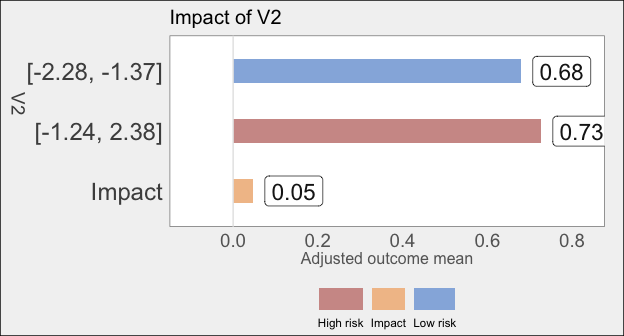
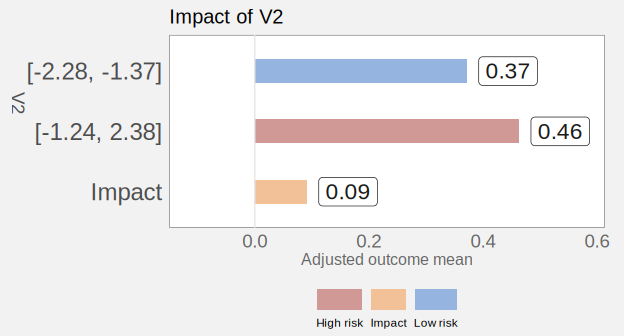
Re-render README from readme.Rmd
The committed example output predated the estimation fixes, so the README
advertised a result the package no longer produces. Its basic example showed

  V3 Ordered 0.49861358 (0.255 - 0.742) 2.935984e-05  <- significant

where current master gives

  V1 Ordered 0.14489067 (-0.139 - 0.429) 0.1584764
  V2 Ordered 0.09158159 (-0.162 - 0.345) 0.2397969
  V3 Ordered 0.06324108 (-0.189 - 0.315) 0.3114153
  V4 Ordered 0.04160003 (-0.245 - 0.329) 0.3881728

so the headline block now reads "No significant and consistent results."
Different magnitudes and a different ordering; most of this is the #34 offset
fix, where stats::offset() was not being recognised as the formula's offset
special and epsilon came back inflated.

The mlbench BreastCancer example still finds the same four significant
variables (Bare.nuclei, Cell.size, Mitoses, Cl.thickness).

Rendered with rmarkdown::render("readme.Rmd", output_file = "README.md") -
naming the output explicitly, since the source is lowercase and render() would
otherwise write a new readme.md and leave README.md stale.

Every changed line in README.md begins with "#>", so the diff is regenerated
knitr output only: no prose changed and there is no pandoc-version churn. The
two plots are regenerated to match.

Also ignored README.html, the local preview github_document writes via
html_preview; it has never been tracked and should not start now.

Claude-Session: https://claude.ai/code/session_01Xo3yCjZifUfAfLdHL1c1Hu

diff --git a/README.md b/README.md
@@ -92,24 +92,31 @@ vim <- varimpact(Y = Y, data = X)
 
 # Review consistent and significant results.
 vim
-#> Significant and consistent results:
-#>       Type  Estimate            CI95      P-value Adj. p-value  Est. RR
-#> V3 Ordered 0.4986136 (0.255 - 0.742) 2.935984e-05 0.0001174394 2.908162
-#>         CI95 RR   P-value RR Adj. p-value RR
-#> V3 (1.92 - 4.4) 2.214955e-07    8.859819e-07
+#> No significant and consistent results.
+#> All results:
+#>       Type   Estimate             CI95   P-value Adj. p-value  Est. RR
+#> V1 Ordered 0.14489067 (-0.139 - 0.429) 0.1584764    0.3881728 1.481582
+#> V2 Ordered 0.09158159 (-0.162 - 0.345) 0.2397969    0.3881728 1.248218
+#> V3 Ordered 0.06324108 (-0.189 - 0.315) 0.3114153    0.3881728 1.143214
+#> V4 Ordered 0.04160003 (-0.245 - 0.329) 0.3881728    0.3881728 1.092865
+#>           CI95 RR P-value RR Adj. p-value RR Consistent
+#> V1  (0.58 - 3.79)  0.2057776       0.3838645       TRUE
+#> V2 (0.627 - 2.48)  0.2638584       0.3838645       TRUE
+#> V3  (0.69 - 1.89)  0.3017601       0.3838645       TRUE
+#> V4 (0.606 - 1.97)  0.3838645       0.3838645       TRUE
 
 # Look at all results.
 vim$results_all
-#>       Type    Estimate             CI95      P-value Adj. p-value   Est. RR
-#> V3 Ordered  0.49861358  (0.255 - 0.742) 2.935984e-05 0.0001174394 2.9081617
-#> V4 Ordered  0.21853793 (-0.167 - 0.604) 1.334006e-01 0.2668012809 1.4110231
-#> V2 Ordered  0.04733746 (-0.276 - 0.371) 3.872064e-01 0.5162752138 1.0698709
-#> V1 Ordered -0.10939221 (-0.494 - 0.275) 7.116162e-01 0.7116161584 0.8266168
-#>           CI95 RR   P-value RR Adj. p-value RR Consistent
-#> V3   (1.92 - 4.4) 2.214955e-07    8.859819e-07       TRUE
-#> V4 (0.833 - 2.39) 1.000755e-01    2.001509e-01       TRUE
-#> V2 (0.664 - 1.72) 3.905406e-01    5.207208e-01       TRUE
-#> V1 (0.441 - 1.55) 7.238555e-01    7.238555e-01       TRUE
+#>       Type   Estimate             CI95   P-value Adj. p-value  Est. RR
+#> V1 Ordered 0.14489067 (-0.139 - 0.429) 0.1584764    0.3881728 1.481582
+#> V2 Ordered 0.09158159 (-0.162 - 0.345) 0.2397969    0.3881728 1.248218
+#> V3 Ordered 0.06324108 (-0.189 - 0.315) 0.3114153    0.3881728 1.143214
+#> V4 Ordered 0.04160003 (-0.245 - 0.329) 0.3881728    0.3881728 1.092865
+#>           CI95 RR P-value RR Adj. p-value RR Consistent
+#> V1  (0.58 - 3.79)  0.2057776       0.3838645       TRUE
+#> V2 (0.627 - 2.48)  0.2638584       0.3838645       TRUE
+#> V3  (0.69 - 1.89)  0.3017601       0.3838645       TRUE
+#> V4 (0.606 - 1.97)  0.3838645       0.3838645       TRUE
 
 # Plot the V2 impact.
 plot_var("V2", vim)
@@ -121,6 +128,7 @@ plot_var("V2", vim)
 
 # Generate latex tables with results.
 exportLatex(vim)
+#> NULL
 
 # Clean up LaTeX files
 cleanup_latex_files()
@@ -142,11 +150,92 @@ set.seed(1, "L'Ecuyer-CMRG")
 #> No factor variables - skip VIM estimation.
 #> 
 #> Estimating variable importance for 4 numerics.
-#> Significant and consistent results:
-#>       Type Estimate            CI95      P-value Adj. p-value  Est. RR
-#> V3 Ordered  0.56401 (0.326 - 0.802) 1.749015e-06 6.996059e-06 3.644982
-#>          CI95 RR   P-value RR Adj. p-value RR
-#> V3 (2.34 - 5.69) 6.234554e-09    2.493822e-08
+#> Error in lognet(xd, is.sparse, ix, jx, y, weights, offset, alpha, nobs,  : 
+#>   one multinomial or binomial class has 1 or 0 observations; not allowed
+#> Error in lognet(xd, is.sparse, ix, jx, y, weights, offset, alpha, nobs,  : 
+#>   one multinomial or binomial class has 1 or 0 observations; not allowed
+#> Error in h(simpleError(msg, call)) : 
+#>   error in evaluating the argument 'x' in selecting a method for function 'drop': non-conformable arguments
+#> Error in lognet(xd, is.sparse, ix, jx, y, weights, offset, alpha, nobs,  : 
+#>   one multinomial or binomial class has 1 or 0 observations; not allowed
+#> Error in lognet(xd, is.sparse, ix, jx, y, weights, offset, alpha, nobs,  : 
+#>   one multinomial or binomial class has 1 or 0 observations; not allowed
+#> Error in lognet(xd, is.sparse, ix, jx, y, weights, offset, alpha, nobs,  : 
+#>   one multinomial or binomial class has 1 or 0 observations; not allowed
+#> Error in lognet(xd, is.sparse, ix, jx, y, weights, offset, alpha, nobs,  : 
+#>   one multinomial or binomial class has 1 or 0 observations; not allowed
+#> Error in h(simpleError(msg, call)) : 
+#>   error in evaluating the argument 'x' in selecting a method for function 'drop': non-conformable arguments
+#> Error in lognet(xd, is.sparse, ix, jx, y, weights, offset, alpha, nobs,  : 
+#>   one multinomial or binomial class has 1 or 0 observations; not allowed
+#> Error in lognet(xd, is.sparse, ix, jx, y, weights, offset, alpha, nobs,  : 
+#>   one multinomial or binomial class has 1 or 0 observations; not allowed
+#> Error in lognet(xd, is.sparse, ix, jx, y, weights, offset, alpha, nobs,  : 
+#>   one multinomial or binomial class has 1 or 0 observations; not allowed
+#> Error in h(simpleError(msg, call)) : 
+#>   error in evaluating the argument 'x' in selecting a method for function 'drop': non-conformable arguments
+#> Error in lognet(xd, is.sparse, ix, jx, y, weights, offset, alpha, nobs,  : 
+#>   one multinomial or binomial class has 1 or 0 observations; not allowed
+#> Error in lognet(xd, is.sparse, ix, jx, y, weights, offset, alpha, nobs,  : 
+#>   one multinomial or binomial class has 1 or 0 observations; not allowed
+#> Error in lognet(xd, is.sparse, ix, jx, y, weights, offset, alpha, nobs,  : 
+#>   one multinomial or binomial class has 1 or 0 observations; not allowed
+#> Error in lognet(xd, is.sparse, ix, jx, y, weights, offset, alpha, nobs,  : 
+#>   one multinomial or binomial class has 1 or 0 observations; not allowed
+#> Error in lognet(xd, is.sparse, ix, jx, y, weights, offset, alpha, nobs,  : 
+#>   one multinomial or binomial class has 1 or 0 observations; not allowed
+#> Error in lognet(xd, is.sparse, ix, jx, y, weights, offset, alpha, nobs,  : 
+#>   one multinomial or binomial class has 1 or 0 observations; not allowed
+#> Error in lognet(xd, is.sparse, ix, jx, y, weights, offset, alpha, nobs,  : 
+#>   one multinomial or binomial class has 1 or 0 observations; not allowed
+#> Error in lognet(xd, is.sparse, ix, jx, y, weights, offset, alpha, nobs,  : 
+#>   one multinomial or binomial class has 1 or 0 observations; not allowed
+#> Error in lognet(xd, is.sparse, ix, jx, y, weights, offset, alpha, nobs,  : 
+#>   one multinomial or binomial class has 1 or 0 observations; not allowed
+#> Error in lognet(xd, is.sparse, ix, jx, y, weights, offset, alpha, nobs,  : 
+#>   one multinomial or binomial class has 1 or 0 observations; not allowed
+#> Error in lognet(xd, is.sparse, ix, jx, y, weights, offset, alpha, nobs,  : 
+#>   one multinomial or binomial class has 1 or 0 observations; not allowed
+#> Error in lognet(xd, is.sparse, ix, jx, y, weights, offset, alpha, nobs,  : 
+#>   one multinomial or binomial class has 1 or 0 observations; not allowed
+#> Error in lognet(xd, is.sparse, ix, jx, y, weights, offset, alpha, nobs,  : 
+#>   one multinomial or binomial class has 1 or 0 observations; not allowed
+#> Error in lognet(xd, is.sparse, ix, jx, y, weights, offset, alpha, nobs,  : 
+#>   one multinomial or binomial class has 1 or 0 observations; not allowed
+#> Error in h(simpleError(msg, call)) : 
+#>   error in evaluating the argument 'x' in selecting a method for function 'drop': non-conformable arguments
+#> Error in lognet(xd, is.sparse, ix, jx, y, weights, offset, alpha, nobs,  : 
+#>   one multinomial or binomial class has 1 or 0 observations; not allowed
+#> Error in h(simpleError(msg, call)) : 
+#>   error in evaluating the argument 'x' in selecting a method for function 'drop': non-conformable arguments
+#> Error in lognet(xd, is.sparse, ix, jx, y, weights, offset, alpha, nobs,  : 
+#>   one multinomial or binomial class has 1 or 0 observations; not allowed
+#> Error in lognet(xd, is.sparse, ix, jx, y, weights, offset, alpha, nobs,  : 
+#>   one multinomial or binomial class has 1 or 0 observations; not allowed
+#> Error in lognet(xd, is.sparse, ix, jx, y, weights, offset, alpha, nobs,  : 
+#>   one multinomial or binomial class has 1 or 0 observations; not allowed
+#> Error in h(simpleError(msg, call)) : 
+#>   error in evaluating the argument 'x' in selecting a method for function 'drop': non-conformable arguments
+#> Error in lognet(xd, is.sparse, ix, jx, y, weights, offset, alpha, nobs,  : 
+#>   one multinomial or binomial class has 1 or 0 observations; not allowed
+#> Error in h(simpleError(msg, call)) : 
+#>   error in evaluating the argument 'x' in selecting a method for function 'drop': non-conformable arguments
+#> Error in lognet(xd, is.sparse, ix, jx, y, weights, offset, alpha, nobs,  : 
+#>   one multinomial or binomial class has 1 or 0 observations; not allowed
+#> Error in lognet(xd, is.sparse, ix, jx, y, weights, offset, alpha, nobs,  : 
+#>   one multinomial or binomial class has 1 or 0 observations; not allowed
+#> No significant and consistent results.
+#> All results:
+#>       Type   Estimate             CI95   P-value Adj. p-value  Est. RR
+#> V1 Ordered 0.11977803   (-0.11 - 0.35) 0.1536074    0.3189829 1.343215
+#> V3 Ordered 0.11061310 (-0.122 - 0.343) 0.1756394    0.3189829 1.251850
+#> V2 Ordered 0.09184043 (-0.162 - 0.346) 0.2392372    0.3189829 1.248918
+#> V4 Ordered 0.03601204 (-0.252 - 0.324) 0.4031810    0.4031810 1.080478
+#>           CI95 RR P-value RR Adj. p-value RR Consistent
+#> V1 (0.706 - 2.55)  0.1556579       0.3511543       TRUE
+#> V3  (0.81 - 1.93)  0.1840749       0.3511543       TRUE
+#> V2 (0.628 - 2.49)  0.2633657       0.3511543       TRUE
+#> V4 (0.597 - 1.96)  0.3990397       0.3990397       TRUE
 ```
 
 ### Example: parallel via multicore
@@ -187,15 +276,15 @@ plan("multisession")
 #> Estimating variable importance for 9 factors.
 #> Significant and consistent results:
 #>                Type  Estimate            CI95      P-value Adj. p-value
-#> Bare.nuclei  Factor 0.6174459   (0.5 - 0.735) 0.000000e+00 0.000000e+00
-#> Mitoses      Factor 0.4092028 (0.333 - 0.486) 0.000000e+00 0.000000e+00
-#> Cl.thickness Factor 0.5245860 (0.382 - 0.667) 3.027578e-13 9.082735e-13
-#> Cell.size    Factor 0.5650275 (0.395 - 0.735) 3.313050e-11 5.963490e-11
+#> Bare.nuclei  Factor 0.5018849 (0.367 - 0.637) 1.602052e-13 1.441847e-12
+#> Cell.size    Factor 0.5745486 (0.402 - 0.747) 3.381506e-11 1.521678e-10
+#> Mitoses      Factor 0.2392427 (0.161 - 0.317) 1.011109e-09 2.274996e-09
+#> Cl.thickness Factor 0.3805930 (0.251 - 0.511) 4.677600e-09 8.419679e-09
 #>               Est. RR       CI95 RR   P-value RR Adj. p-value RR
-#> Bare.nuclei  3.682218 (2.21 - 6.14) 0.000000e+00    0.000000e+00
-#> Mitoses      2.093929 (1.85 - 2.37) 3.023193e-11    1.360437e-10
-#> Cl.thickness 2.952087 (2.13 - 4.08) 2.956850e-07    8.870549e-07
-#> Cell.size    3.445132    (1.98 - 6) 4.465977e-06    8.038759e-06
+#> Bare.nuclei  2.968525 (1.77 - 4.97) 3.356870e-12    3.021183e-11
+#> Cell.size         Inf     (NA - NA) 6.480864e-10    2.916389e-09
+#> Mitoses      1.720553 (1.47 - 2.01) 2.708806e-05    6.094813e-05
+#> Cl.thickness 3.194347  (2.2 - 4.65) 6.051102e-05    1.089198e-04
 plot_var("Mitoses", vim)
 ```
 
